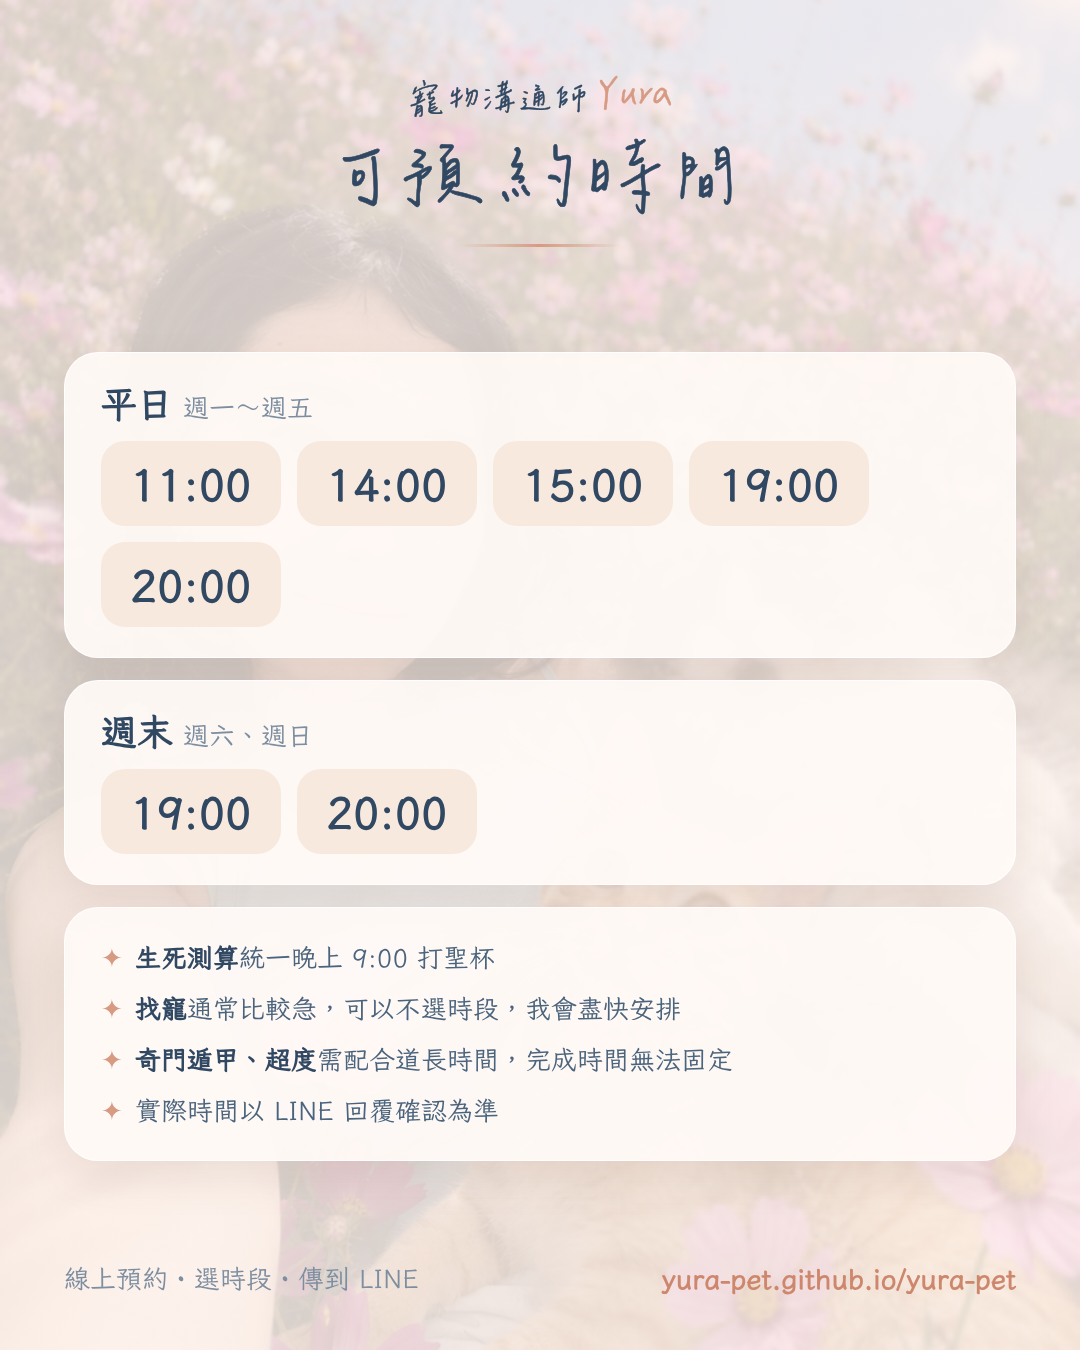
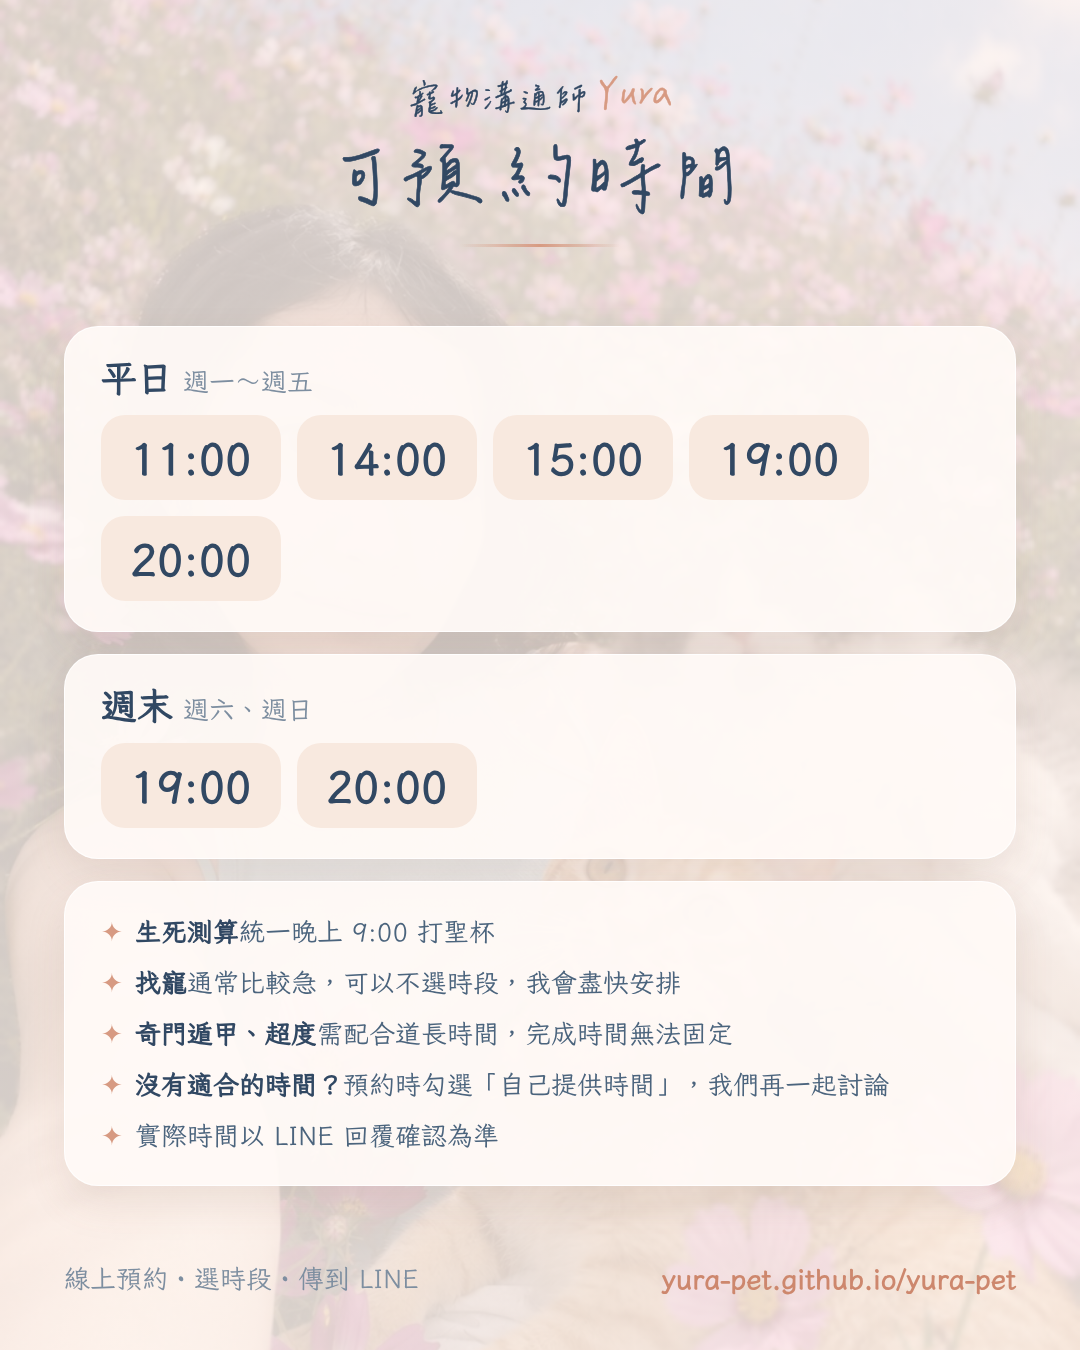
Times card and page: tell customers they can propose their own time
Claude-Session: https://claude.ai/code/session_01MpWapEGJJ8Q1WB6KntLpTt

diff --git a/times.html b/times.html
@@ -21,6 +21,7 @@
     <li><b>生死測算</b>統一在晚上 9:00 打聖杯。</li>
     <li><b>找寵</b>通常比較急，可以不選時段，我會盡快安排。</li>
     <li><b>奇門遁甲、超度</b>需要配合道長的時間，完成時間無法固定。</li>
+    <li><b>沒有適合的時間？</b>預約時勾選「自己提供時間」，我們再一起討論。</li>
     <li>預約時可以選第一、第二志願；實際時間以我在 LINE 回覆確認為準。</li>
   </ul>
   <div class="hero-cta"><a class="btn primary" href="book.html">選時間預約</a></div>

diff --git a/marketing/cards.html b/marketing/cards.html
@@ -154,6 +154,7 @@ h1{font-family:"ChenYuluoyan",serif;font-weight:400;font-size:92px;line-height:1
       <div><b>生死測算</b>統一晚上 9:00 打聖杯</div>
       <div><b>找寵</b>通常比較急，可以不選時段，我會盡快安排</div>
       <div><b>奇門遁甲、超度</b>需配合道長時間，完成時間無法固定</div>
+      <div><b>沒有適合的時間？</b>預約時勾選「自己提供時間」，我們再一起討論</div>
       <div>實際時間以 LINE 回覆確認為準</div>
     </div>
   </div>
